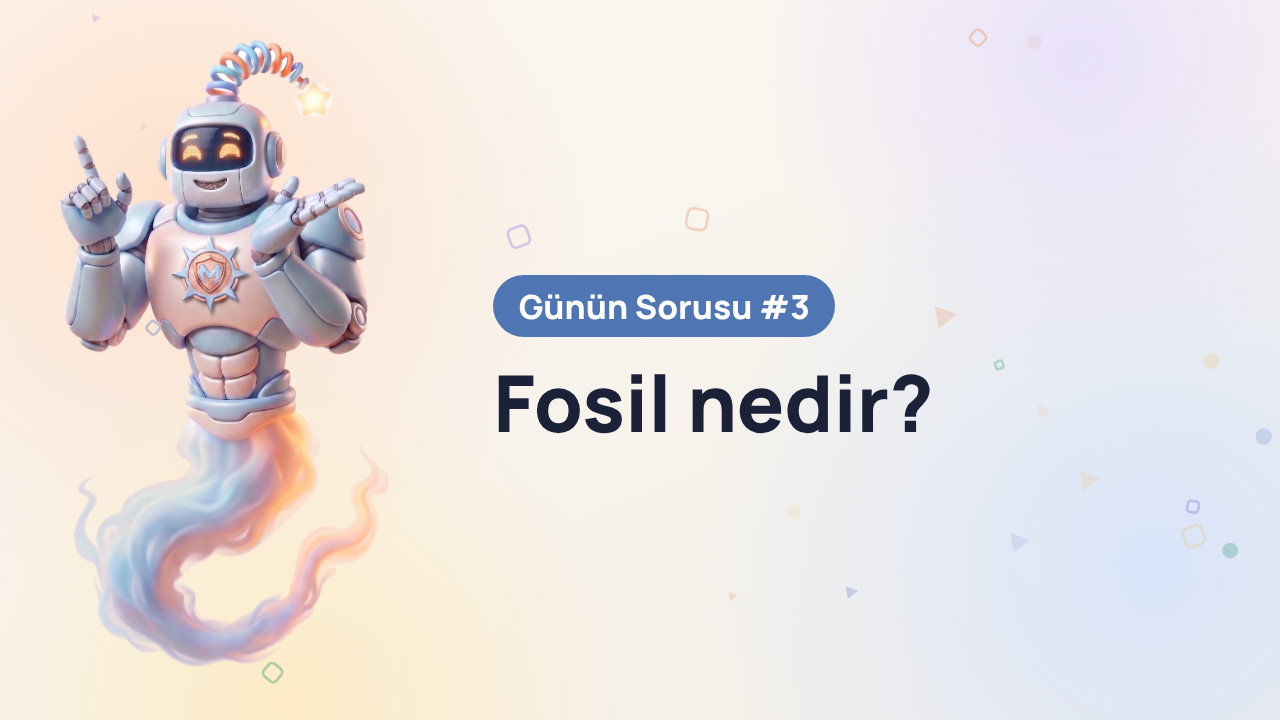
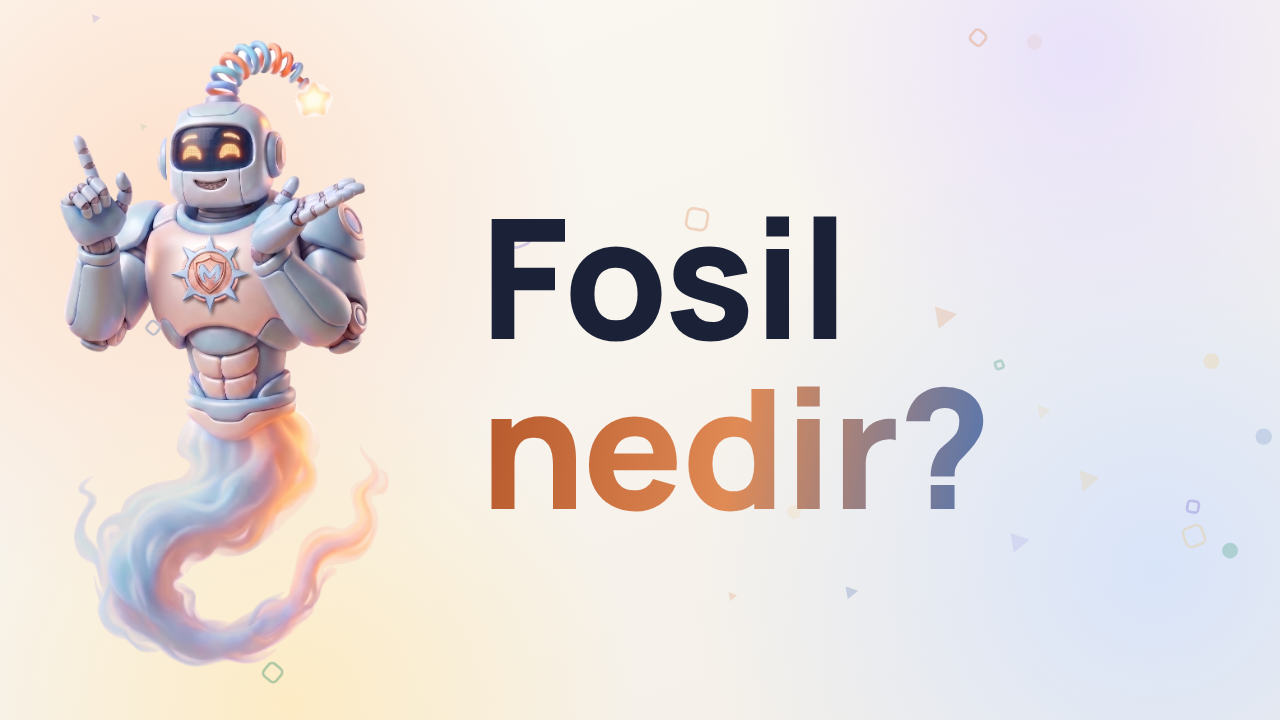
YouTube kapağı: konu bölümlerinde rozet yok, başlık büyük
Claude-Session: https://claude.ai/code/session_01Fyf4Zw3WQhTye8DyEbugfR

Changed region(s): [[0.375, 0.5194, 0.7812, 0.7333], [0.375, 0.275, 0.6562, 0.4889]]

diff --git a/video/Thumbnail.tsx b/video/Thumbnail.tsx
@@ -3,27 +3,34 @@ import { AbsoluteFill, Img, staticFile } from "remotion";
 import type { EpisodeProps } from "../schemas/index";
 import { Background } from "./components/Background";
 import { ensureFonts } from "./fonts";
-import { C, F } from "./theme";
+import { C, F, GRADIENT } from "./theme";
 
 ensureFonts();
 
-export const Thumbnail: React.FC<EpisodeProps> = ({ script, paper }) => (
+export const Thumbnail: React.FC<EpisodeProps> = ({ script, paper }) => {
+  const words = script.videoTitle.trim().split(/\s+/), len = script.videoTitle.length;
+  const last = words[words.length - 1], head = words.slice(0, -1).join(" ");
+  return (
   <AbsoluteFill>
     <Background />
     <div style={{ position: "absolute", left: 90, top: 60 }}>
       {/* thumbnail'de yüksek çözünürlüklü özgün görsel kullanılır */}
       <Img src={staticFile("robot/point.png")} style={{ height: 940 }} />
     </div>
-    <div style={{ position: "absolute", left: 740, right: 80, top: 120, bottom: 120, display: "flex", flexDirection: "column", justifyContent: "center", gap: 36 }}>
-      <div style={{ alignSelf: "flex-start", background: C.teal, color: C.ink, fontFamily: F.head, fontWeight: 900, fontSize: 50, padding: "12px 38px", borderRadius: 50 }}>
-        {paper.kind === "topic" ? "Günün Sorusu" : "Günün Makalesi"} #{script.episodeNumber}
-      </div>
-      <div style={{ fontFamily: F.head, fontWeight: 900, fontSize: script.videoTitle.length > 48 ? 96 : 118, lineHeight: 1.06, color: C.text }}>
-        {script.videoTitle}
+    <div style={{ position: "absolute", left: 720, right: 70, top: 80, bottom: 80, display: "flex", flexDirection: "column", justifyContent: "center", gap: 30 }}>
+      {/* Konu bölümlerinde rozet yok (kullanıcı kararı): başlık kapağı doldurur. */}
+      {paper.kind !== "topic" && (
+        <div style={{ alignSelf: "flex-start", background: C.teal, color: C.ink, fontFamily: F.head, fontWeight: 900, fontSize: 50, padding: "12px 38px", borderRadius: 50 }}>
+          Günün Makalesi #{script.episodeNumber}
+        </div>
+      )}
+      <div style={{ fontFamily: F.head, fontWeight: 900, fontSize: paper.kind !== "topic" ? (len > 48 ? 96 : 118) : len <= 14 ? 250 : len <= 24 ? 185 : len <= 40 ? 145 : 112, lineHeight: 1.02, letterSpacing: -3, color: C.text }}>
+        {head}{head ? " " : ""}<span style={{ backgroundImage: GRADIENT, WebkitBackgroundClip: "text", backgroundClip: "text", color: "transparent" }}>{last}</span>
       </div>
       {paper.isPreprint && (
         <div style={{ alignSelf: "flex-start", background: C.coral, color: C.ink, fontFamily: F.head, fontWeight: 900, fontSize: 38, padding: "8px 28px", borderRadius: 30 }}>ÖN BASKI</div>
       )}
     </div>
   </AbsoluteFill>
-);
+  );
+};

diff --git a/CLAUDE.md b/CLAUDE.md
@@ -75,6 +75,7 @@ Uçtan uca: konu bölümü `npm run episode -- --topic "<soru>"` (fetch/select a
 - Sahne tipleri: `hook`, `source-card`, `big-number`, `bar-chart`, `line-chart`, `comparison`, `diagram`, `analogy` (şablonlar: `scale`, `fill`, `race`, `zoom`), `quote-card`, `bullets`, `clock`, `spotlight`, `stages`, `meter`, `song`, `outro`. Aynı tip art arda gelmez.
 - **Karakter her zaman kullanıcının verdiği robottur** (cin kuyruklu, yay antenli, göğsünde "M" amblemi). Başka karakter kullanılmaz. Görseller `public/robot/` altında, `tools/cutout.py` ile saydam zeminli kesildi. Pozlar: `point` (parmak havada + açık el; yüksek çözünürlüklü özgün görselden), `crossed` (kollar kavuşuk), `book` (kitap okur), `thumbs` (başparmak), `wave` (el sallar), `fly` (kollar açık; yalnızca uçarken). Poz, sahnede `mascot.pose` ile seçilir; verilmezse durumdan türetilir (`talk`/`point` → `point`, `idle`/`think` → `crossed` + düşünce baloncuğu) ve sahne tipine göre otomatik atanır: açılış ve veda `wave`, kaynak kartı `book`, kapanış `thumbs`. **Ağız sese göre oynar** (kullanıcı bunu özellikle beğendi; korunur): açıklık ses genliğinden, biçim o an söylenen kelimenin ünlüsünden gelir (a/e açık, ı/i yayvan ve dişli, o/ö/u/ü yuvarlak, m/b/p kapalı), Özgün ağız poz görsellerinden silinmiştir (`tools/mouthless.py` → `*.nomouth.png`) ve ağız her zaman yeniden çizilir; görselin üstüne yama konmaz (iz bırakıyordu). Anten yıldızı parlar, kuyruk salınır, sahneler arasında konum/ölçek yumuşak geçer; açılışta uçarak gelir, kapanışta uçarak gider (`MascotLayer.tsx`). Kollar yeniden çizilmez.
 - Videodan kare dizisiyle oynatma denendi ve geri alındı: kesim kalitesi düşüktü ve dudak eşlemesi kayboluyordu. Kullanıcı yeni klipler verirse `tools/cutout_video.py` ile işlenir; iyi sonuç için yüksek çözünürlük, düz tek renk zemin (gölgesiz), sabit kamera gerekir. **Karakterin adı: Muma.** Kendini "Ben Muma!" diye tanıtır.
+- **YouTube kapağı** (`out/thumbnail.png`, 1280×720): konu bölümlerinde "Günün Sorusu" rozeti yoktur; başlık büyük yazılır ve kapağı doldurur (kullanıcı kararı). Açılış sahnesindeki rozet durur.
 - Abone ol: sürenin ~%60'ına en yakın sahne sınırında kısa alt bant; kapanışta tam kart.
 - Kapanış: "Bugün bunu öğrendik" + 3 madde sırayla ✓ + "Bir sonraki bilim videosunda görüşürüz!" + abone ol + sonraki video; robot uçarak gider.
 - Stil: **açık ve sıcak** — kullanıcının sitesindeki (mumaapp-panel.web.app/tanitim) tonlar: krem zemin `#FBF8F3`, lacivert yazı `#1B2238`, kiremit→turuncu→mavi geçişli vurgu, beyaz kartlar, **Manrope** yazı tipi. Koyu zemin kullanılmaz (kullanıcı kararı). Arka planda pastel lekeler ve süzülen şekillerle hafif hareket. Tek kaynak: `video/theme.ts`.
